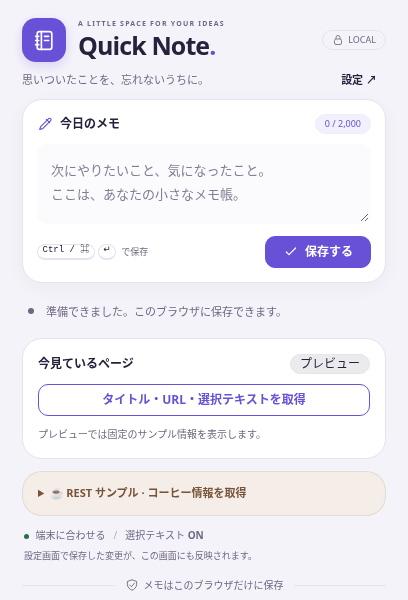
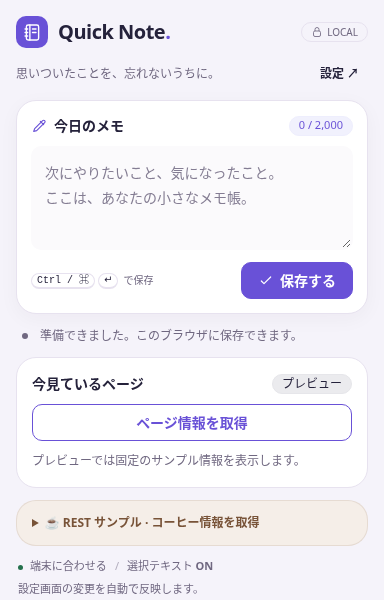
docs: refresh popup previews and document sizing checks

diff --git a/docs/ui.md b/docs/ui.md
@@ -35,6 +35,10 @@ src/ui/
 `src/ui/entrypoints/popup.ts` を読み込みます。ビルド結果の `dist/index.html` も変わりません。
 `options.html` は設定画面のエントリーで、ポップアップと一緒にビルドします。
 ポップアップは高さ 600 px を上限とし、取得結果や開いた REST サンプルはスクロールできます。
+幅は `html.popup-document` に 384 CSS px を指定します。Chrome が内容からポップアップの幅を
+決めるため、`body` を `max-width: 100vw` で初期の狭い viewport に制限しないでください。
+ポップアップのヘッダーは小さくまとめ、操作部は折り返し可能にし、ボタンは文字に応じて高さが伸びます。
+設定画面は通常のタブとして幅を可変にします。
 新しい画面を作るときは `screens/<画面名>/` を追加し、必要なら entrypoint と Vite の入力を追加します。
 画面内でしか使わない UI を、無理に共有 components へ移す必要はありません。
 
@@ -93,6 +97,9 @@ CSS の検出範囲は `@source "../"` で `src/ui` に限定しています。
 
 `pnpm run check` で既存の I/O 契約テスト・型チェック・CSS を含むビルドを確認できます。
 見た目はライト／ダーク、未保存・保存中・成功・失敗、狭い幅で確認します。
+初期幅が 202 CSS px のプレビューでも文書幅が 384 px になることを確認します。
+さらに文書幅を検証用に 202 / 320 / 384 px に変更し、DPR 1 / 2 と基準文字サイズ 16 / 24 / 32 px で
+横にはみ出さず操作できることを確認します。これは Chrome 本体のズーム設定や拡張 popup の実測とは区別します。
 拡張の権限や API の実通信は Chrome にビルド済み `dist/` を読み込んで確認してください。
 
 - [daisyUI の Vite 導入手順](https://daisyui.com/docs/install/vite/)

diff --git a/docs/screenshots/README.md b/docs/screenshots/README.md
@@ -3,10 +3,10 @@
 - `popup-light.png`: ライトテーマの初期表示。
 - `popup-dark.png`: ダークテーマの初期表示。
 - `options-light.png` / `options-dark.png`: 設定画面の初期表示。
-- 取得日: 2026-10-31（日本時間）。
+- 取得日: 2026-11-01（日本時間）。
 - 対象: `pnpm run build` で生成した `dist/` のブラウザプレビュー。
 - ブラウザ: Chromium 154.0.8037.57、デバイススケール 1。
-- ポップアップは幅 408 px、高さ上限 600 px の body。設定画面は幅 1100 px の全ページ。
+- ポップアップは文書幅 384 CSS px、高さ上限 600 px の body。設定画面は幅 1100 px の全ページ。
 - 保存データがない新しいブラウザコンテキストを使用し、初期読み込み完了後の body を撮影。
 - カラースキームを light / dark に切り替えて撮影。表示の加工・合成は行っていません。
 
